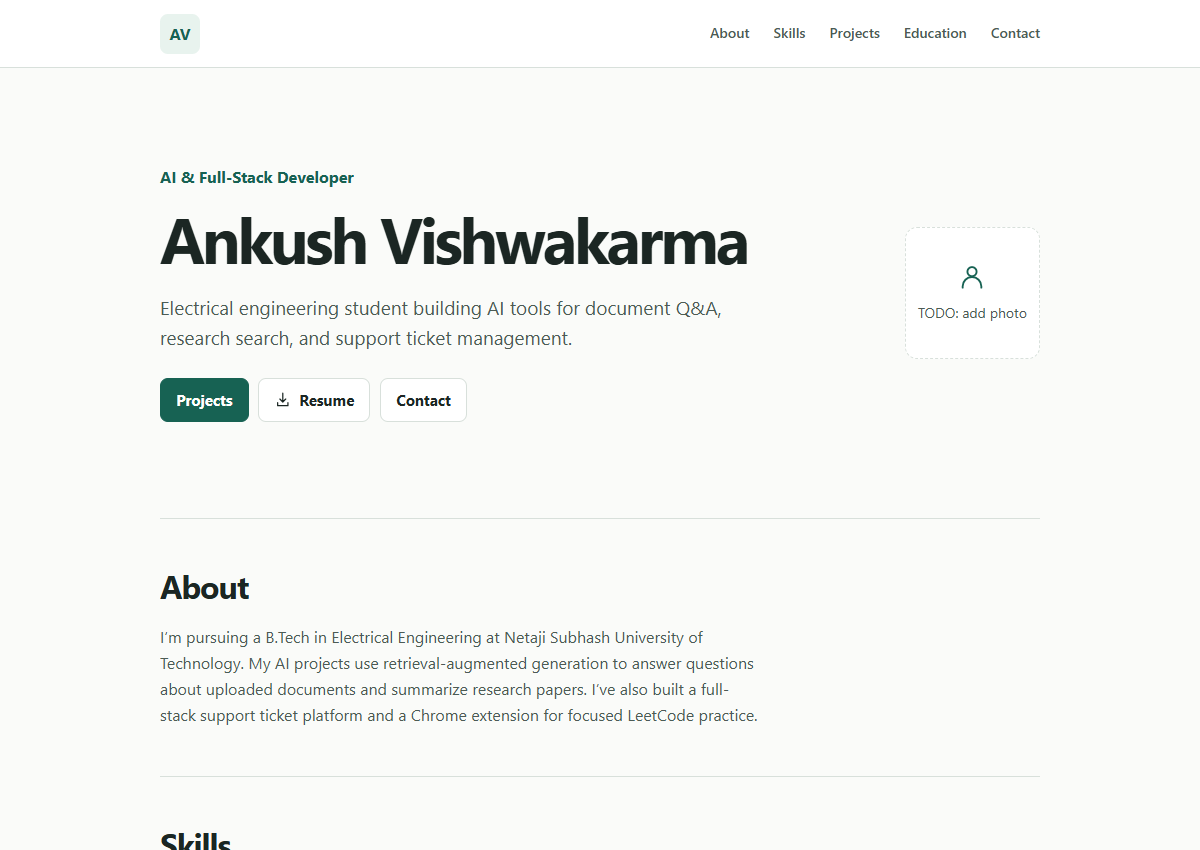
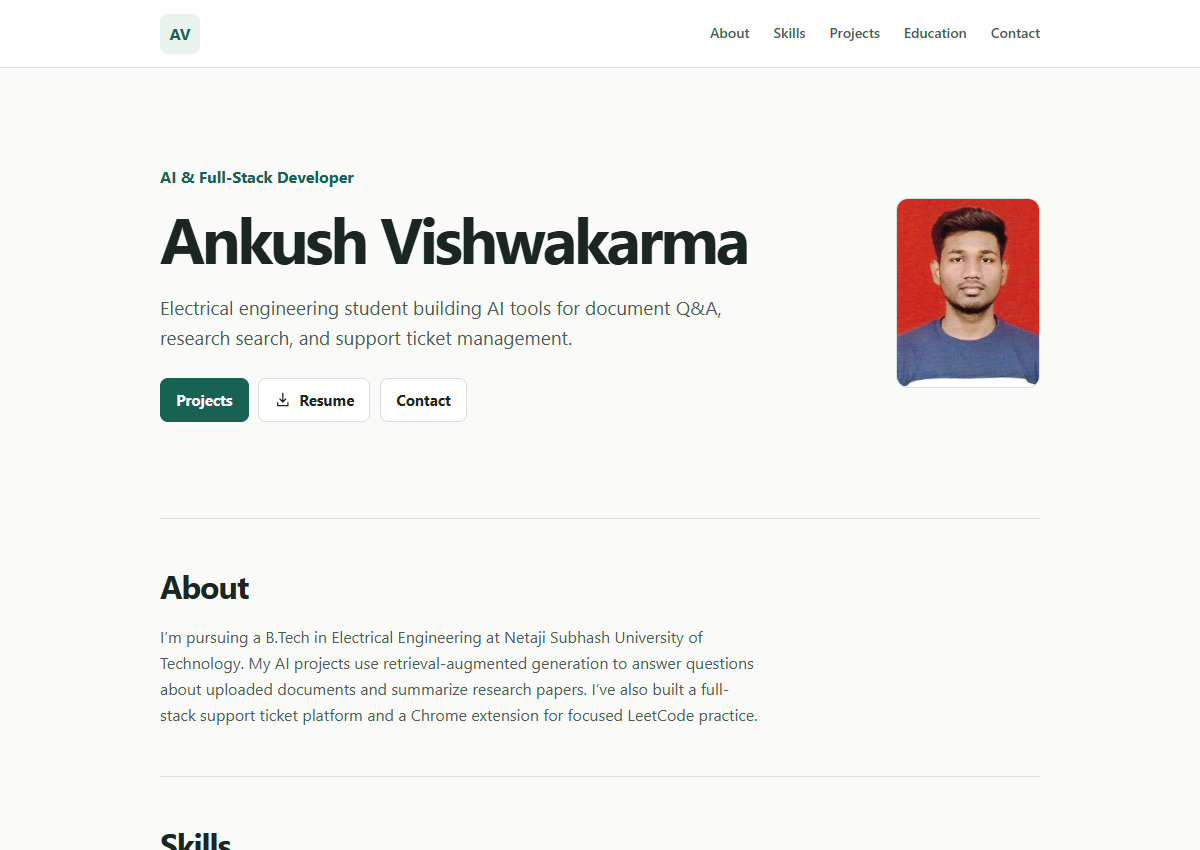
Updated project

Changed region(s): [[0.74, 0.2141, 0.8942, 0.4588]]

diff --git a/public/css/style.css b/public/css/style.css
@@ -162,22 +162,14 @@ h1 {
 .button.primary:hover { background: var(--accent-hover); border-color: var(--accent-hover); }
 .button svg { width: 1.1rem; height: 1.1rem; }
 
-.photo-placeholder {
-  display: grid;
-  place-items: center;
-  align-content: center;
-  gap: 0.55rem;
-  min-height: 8.25rem;
-  min-width: 8.25rem;
-  padding: 0.75rem;
-  border: 1px dashed var(--border);
+.portrait {
+  display: block;
+  width: 9rem;
+  max-width: 100%;
+  height: auto;
+  border: 1px solid var(--border);
   border-radius: 0.75rem;
-  background: var(--surface);
-  color: var(--muted);
-  font-size: 0.875rem;
 }
-
-.photo-placeholder svg { width: 2rem; height: 2rem; color: var(--accent); }
 
 .section {
   border-top: 1px solid var(--border);
@@ -253,7 +245,6 @@ h3 { font-size: 1.0625rem; }
 }
 
 .project-links a, .contact-links a { font-weight: 650; }
-.todo { color: var(--muted); }
 
 .entries li + li {
   margin-top: 0.9rem;
@@ -277,7 +268,7 @@ h3 { font-size: 1.0625rem; }
 
 @media (max-width: 39rem) {
   .hero, .skills div, .project-grid { grid-template-columns: minmax(0, 1fr); }
-  .photo-placeholder { justify-self: start; min-height: 6.5rem; }
+  .portrait { width: 6.75rem; }
 }
 
 @media (max-width: 25rem) {

diff --git a/public/index.html b/public/index.html
@@ -44,10 +44,7 @@
           <a class="button" href="#contact">Contact</a>
         </div>
       </div>
-      <div class="photo-placeholder">
-        <svg viewBox="0 0 24 24" aria-hidden="true" fill="none" stroke="currentColor" stroke-width="1.4" stroke-linecap="round"><circle cx="12" cy="8" r="3.4"/><path d="M5 20v-1a7 7 0 0 1 14 0v1"/></svg>
-        <span>TODO: add photo</span>
-      </div>
+      <img class="portrait" src="assets/ankush-vishwakarma.jpg" alt="Portrait of Ankush Vishwakarma" width="366" height="484">
     </section>
 
     <section class="section" id="about" aria-labelledby="about-heading">
@@ -93,7 +90,6 @@
           <ul class="tags" role="list"><li>Python</li><li>Sentence Transformers</li><li>FAISS</li><li>LangChain</li><li>Groq Llama 3.1 8B</li><li>KeyBERT</li><li>DistilBART</li></ul>
           <ul class="project-links" role="list">
             <li><a href="https://github.com/ankush-exploring/Fanite" aria-label="Neural ArXiv on GitHub">GitHub</a></li>
-            <li class="todo">TODO: add live demo</li>
           </ul>
         </article>
         <article class="project">

diff --git a/README.md b/README.md
@@ -17,8 +17,6 @@ python -m http.server 8000 --directory public
 
 ## TODOs
 
-- Add a photo.
-- Add a Neural ArXiv live demo link.
 - After choosing a public site URL and social preview image, add their absolute URLs as `og:url` and `og:image` in `public/index.html`.
 
 The downloadable PDF is resume 2 with the phone number removed. It was chosen for its broader technical skills section.
